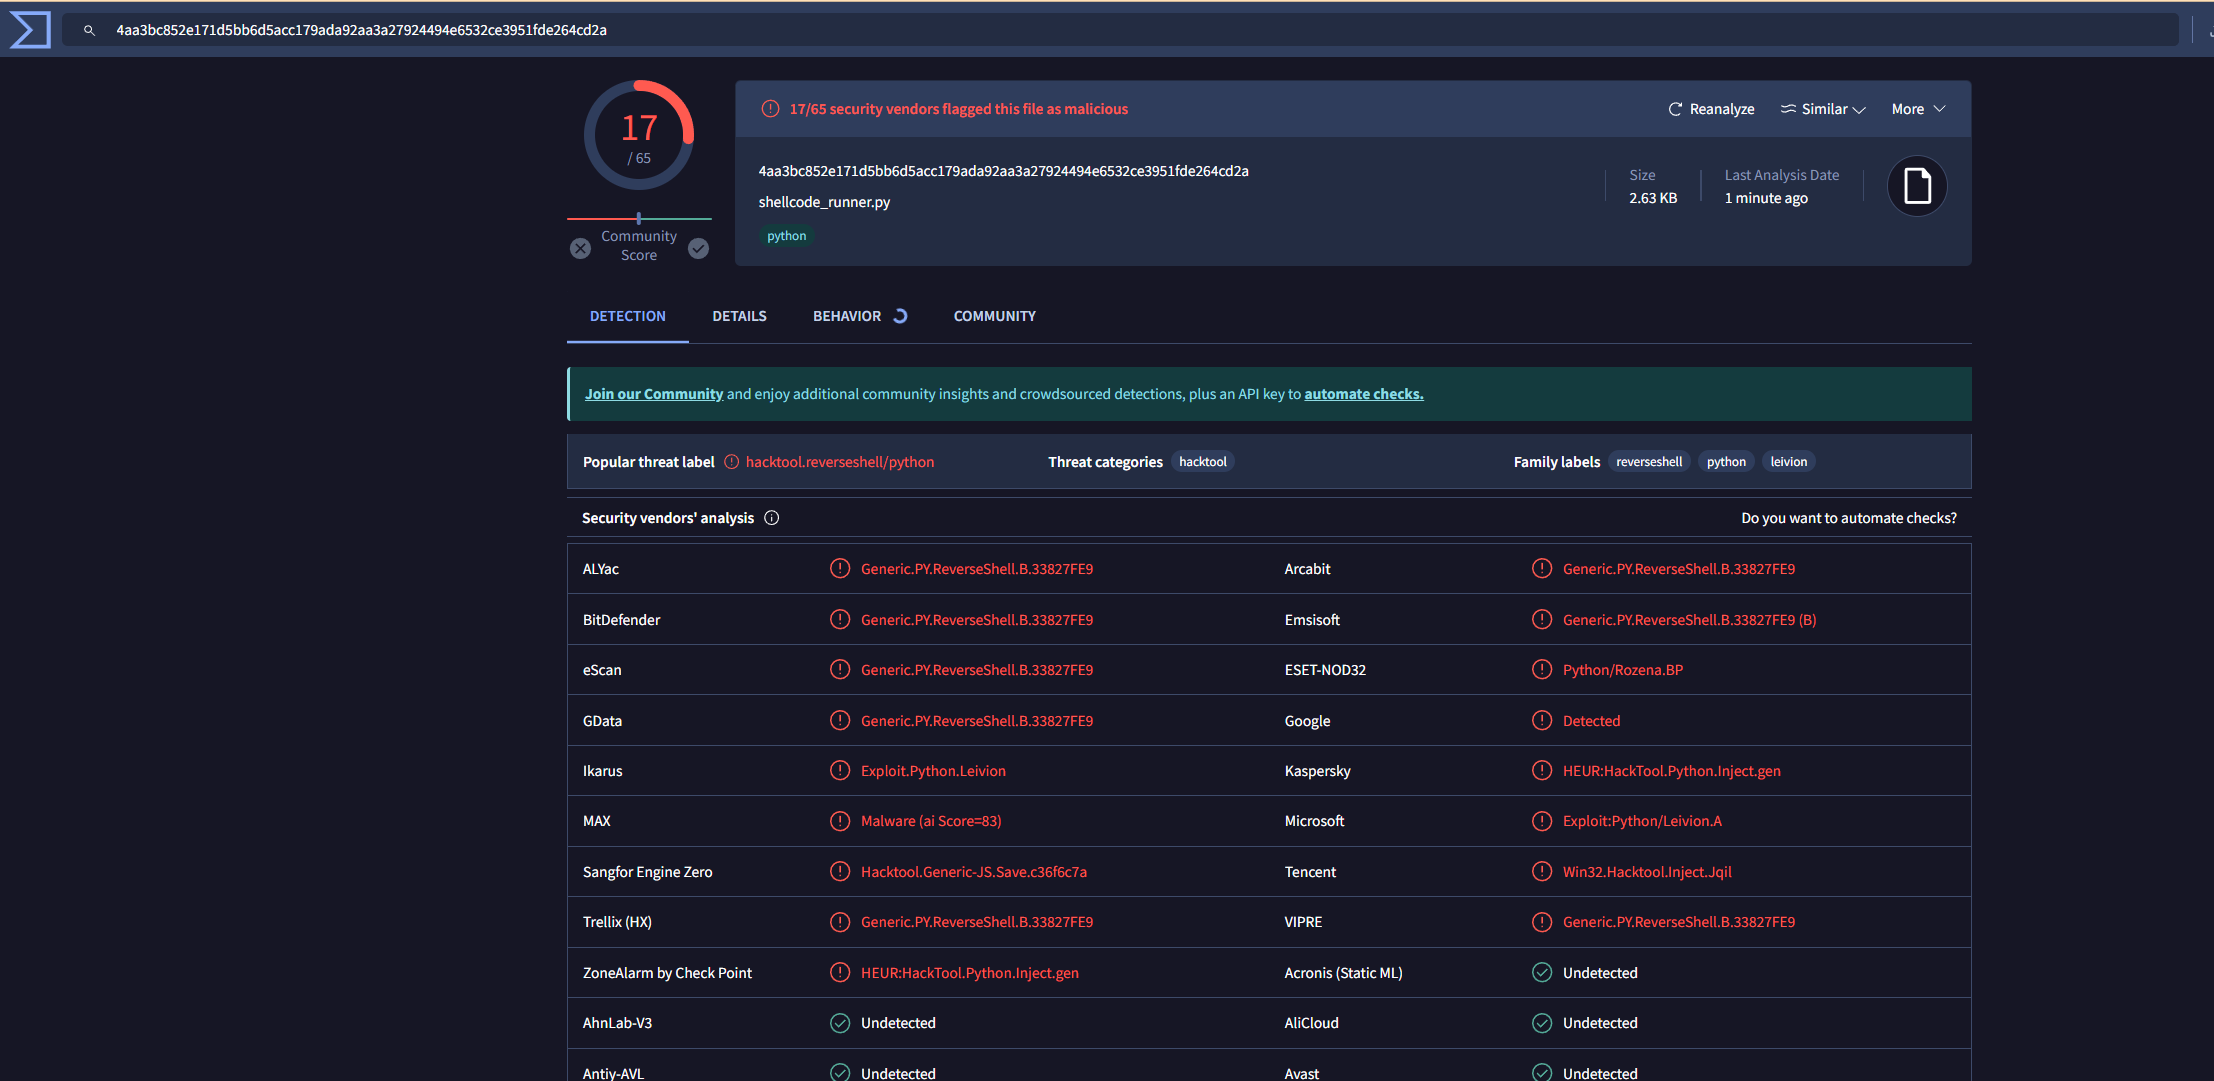
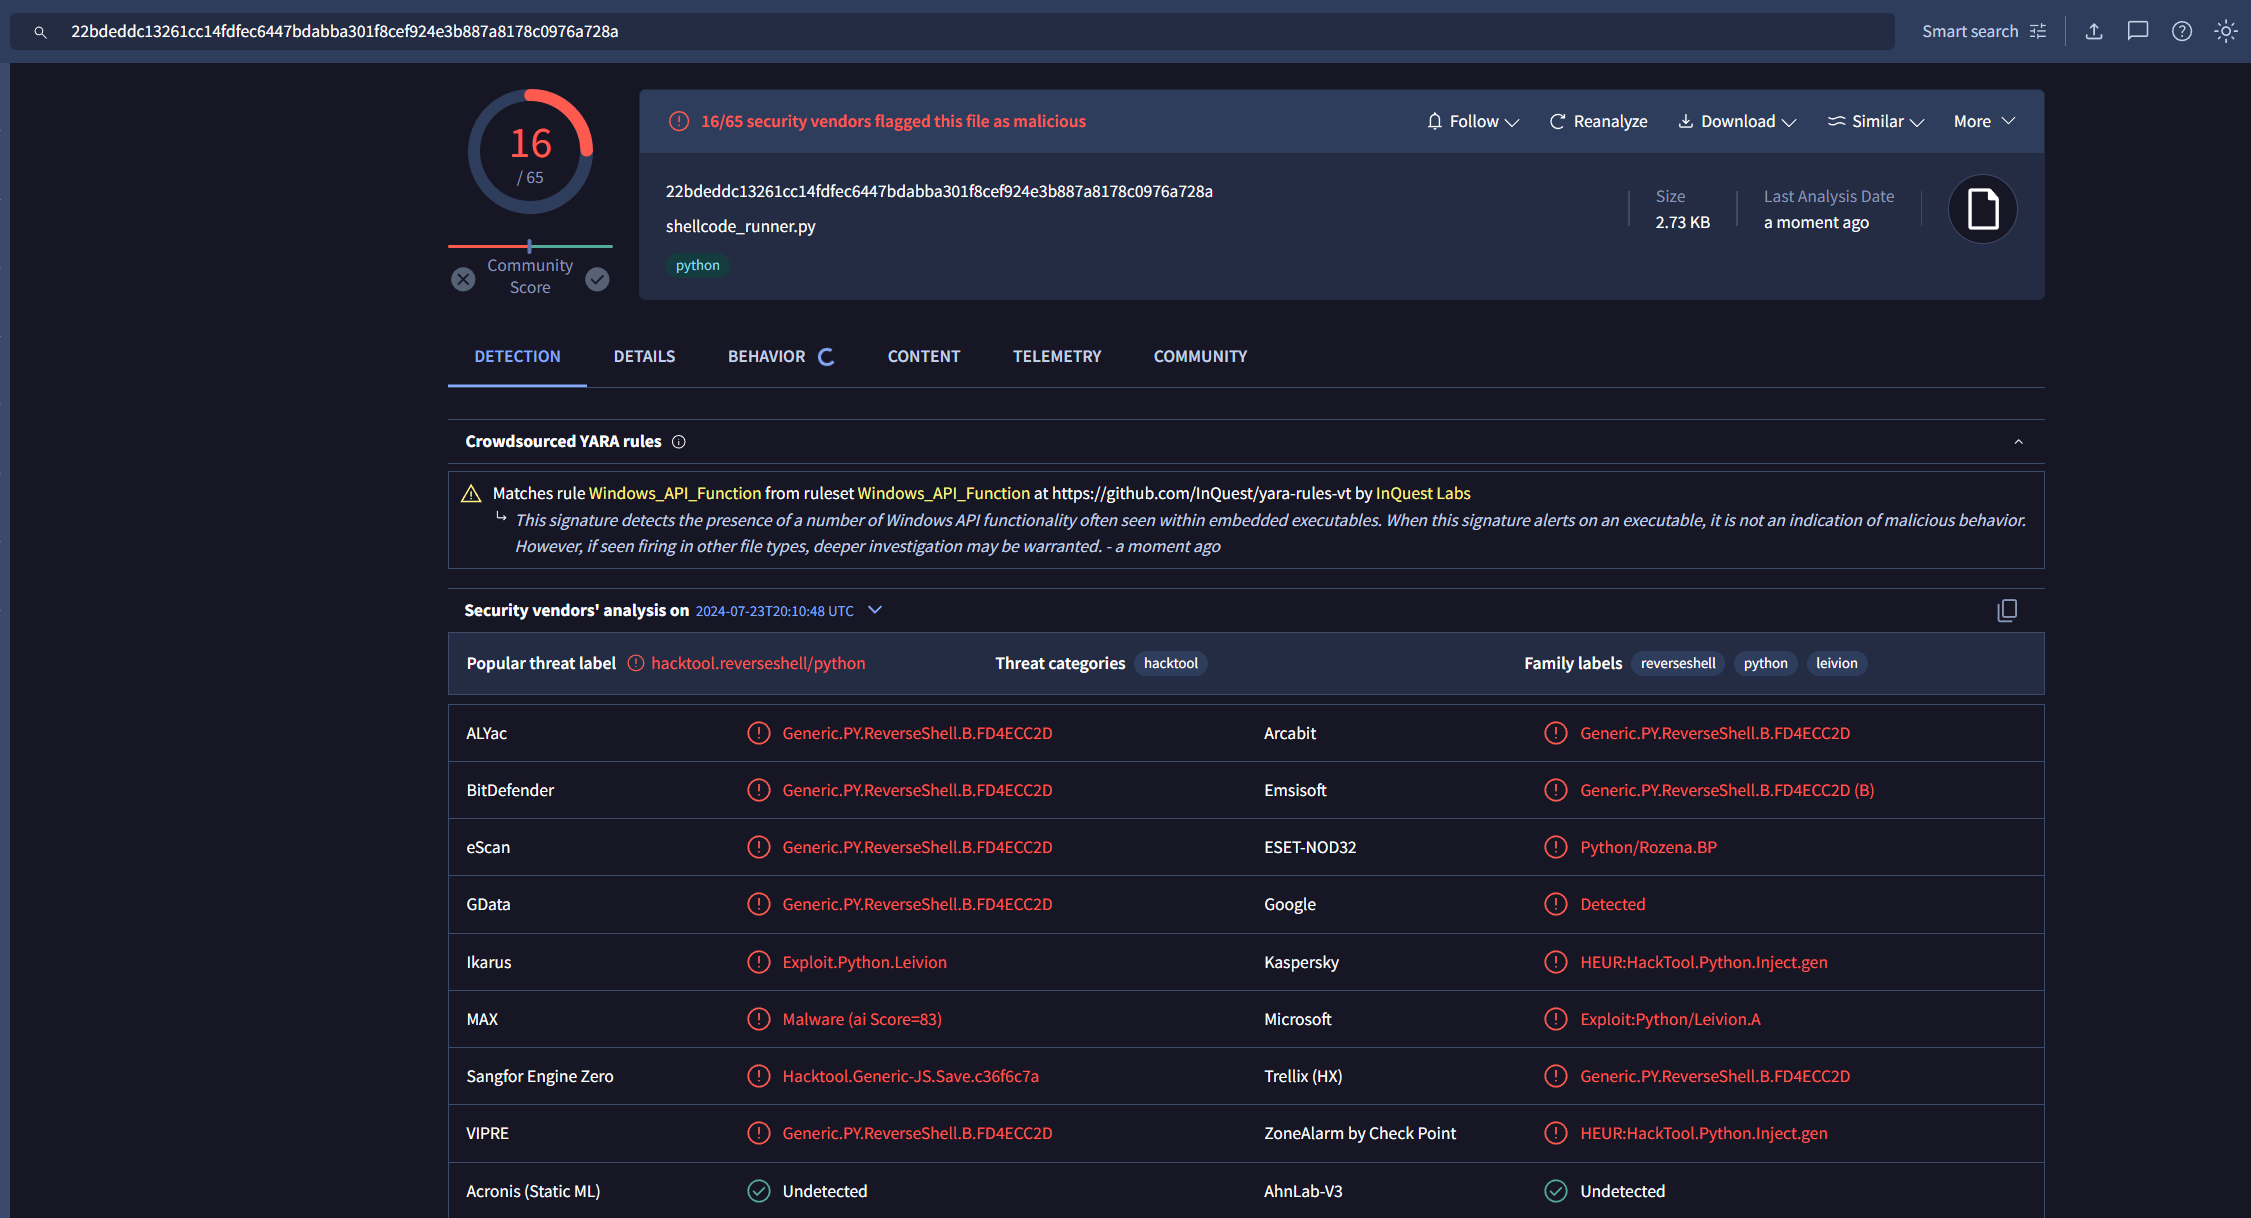
update

diff --git a/_posts/Defence Evasion/2023-07-21-Creating-Stego-payloads2.md b/_posts/Defence Evasion/2023-07-21-Creating-Stego-payloads2.md
@@ -93,9 +93,11 @@ From the above we can see 3 functions:
 
 * `shellcode_exec()` - This function uses Win32 API to load malicious shellcode into memory and execute it
 
-From the above, the issues are introduced in the `shellcode_exec()` function. Although no malicious shellcode is stored in a "readable" format within the Python script (i.e. it is loaded into memory upon execution, when it is decoded), the functions `VirtualAlloc`, `RtlMoveMemory`, `CreateThread` & `WaitForSingleObject` do exist in plaintext within the script, and can definitely indicate malicious activity, without the malicious shellcode existing in the first place. Anti-virus detection engines may be configured to block or quarantine certain scripts containing those above file names. We can see this is the case by uploading this old steganographic shellcode runner to VirusTotal:
+From the above, the issues are introduced in the `shellcode_exec()` function. Although no malicious shellcode is stored in a "readable" format within the Python script (i.e. it is loaded into memory upon execution, when it is decoded), the functions `VirtualAlloc`, `RtlMoveMemory`, `CreateThread` & `WaitForSingleObject` do exist in plaintext within the script, and this can definitely indicate malicious activity, without the malicious shellcode existing in the first place. Anti-virus detection engines may be configured to block or quarantine certain scripts containing those above function names. We can see this is the case by uploading this old steganographic shellcode runner to VirusTotal:
 
 [![1](/assets/images/PyStegMalz2/1.PNG)](/assets/images/PyStegMalz2/1.PNG){: .align-center}
+
+As we can see there has been 17/65 VirusTotal detections for this script due to existence of certain functions which can indicate malicious activity. The below updated code gets rid of this issue by steganographically encoding this `shellcode_exec()` function alongside the encoded shellcode within an image
 
 
 # Python implementation   
